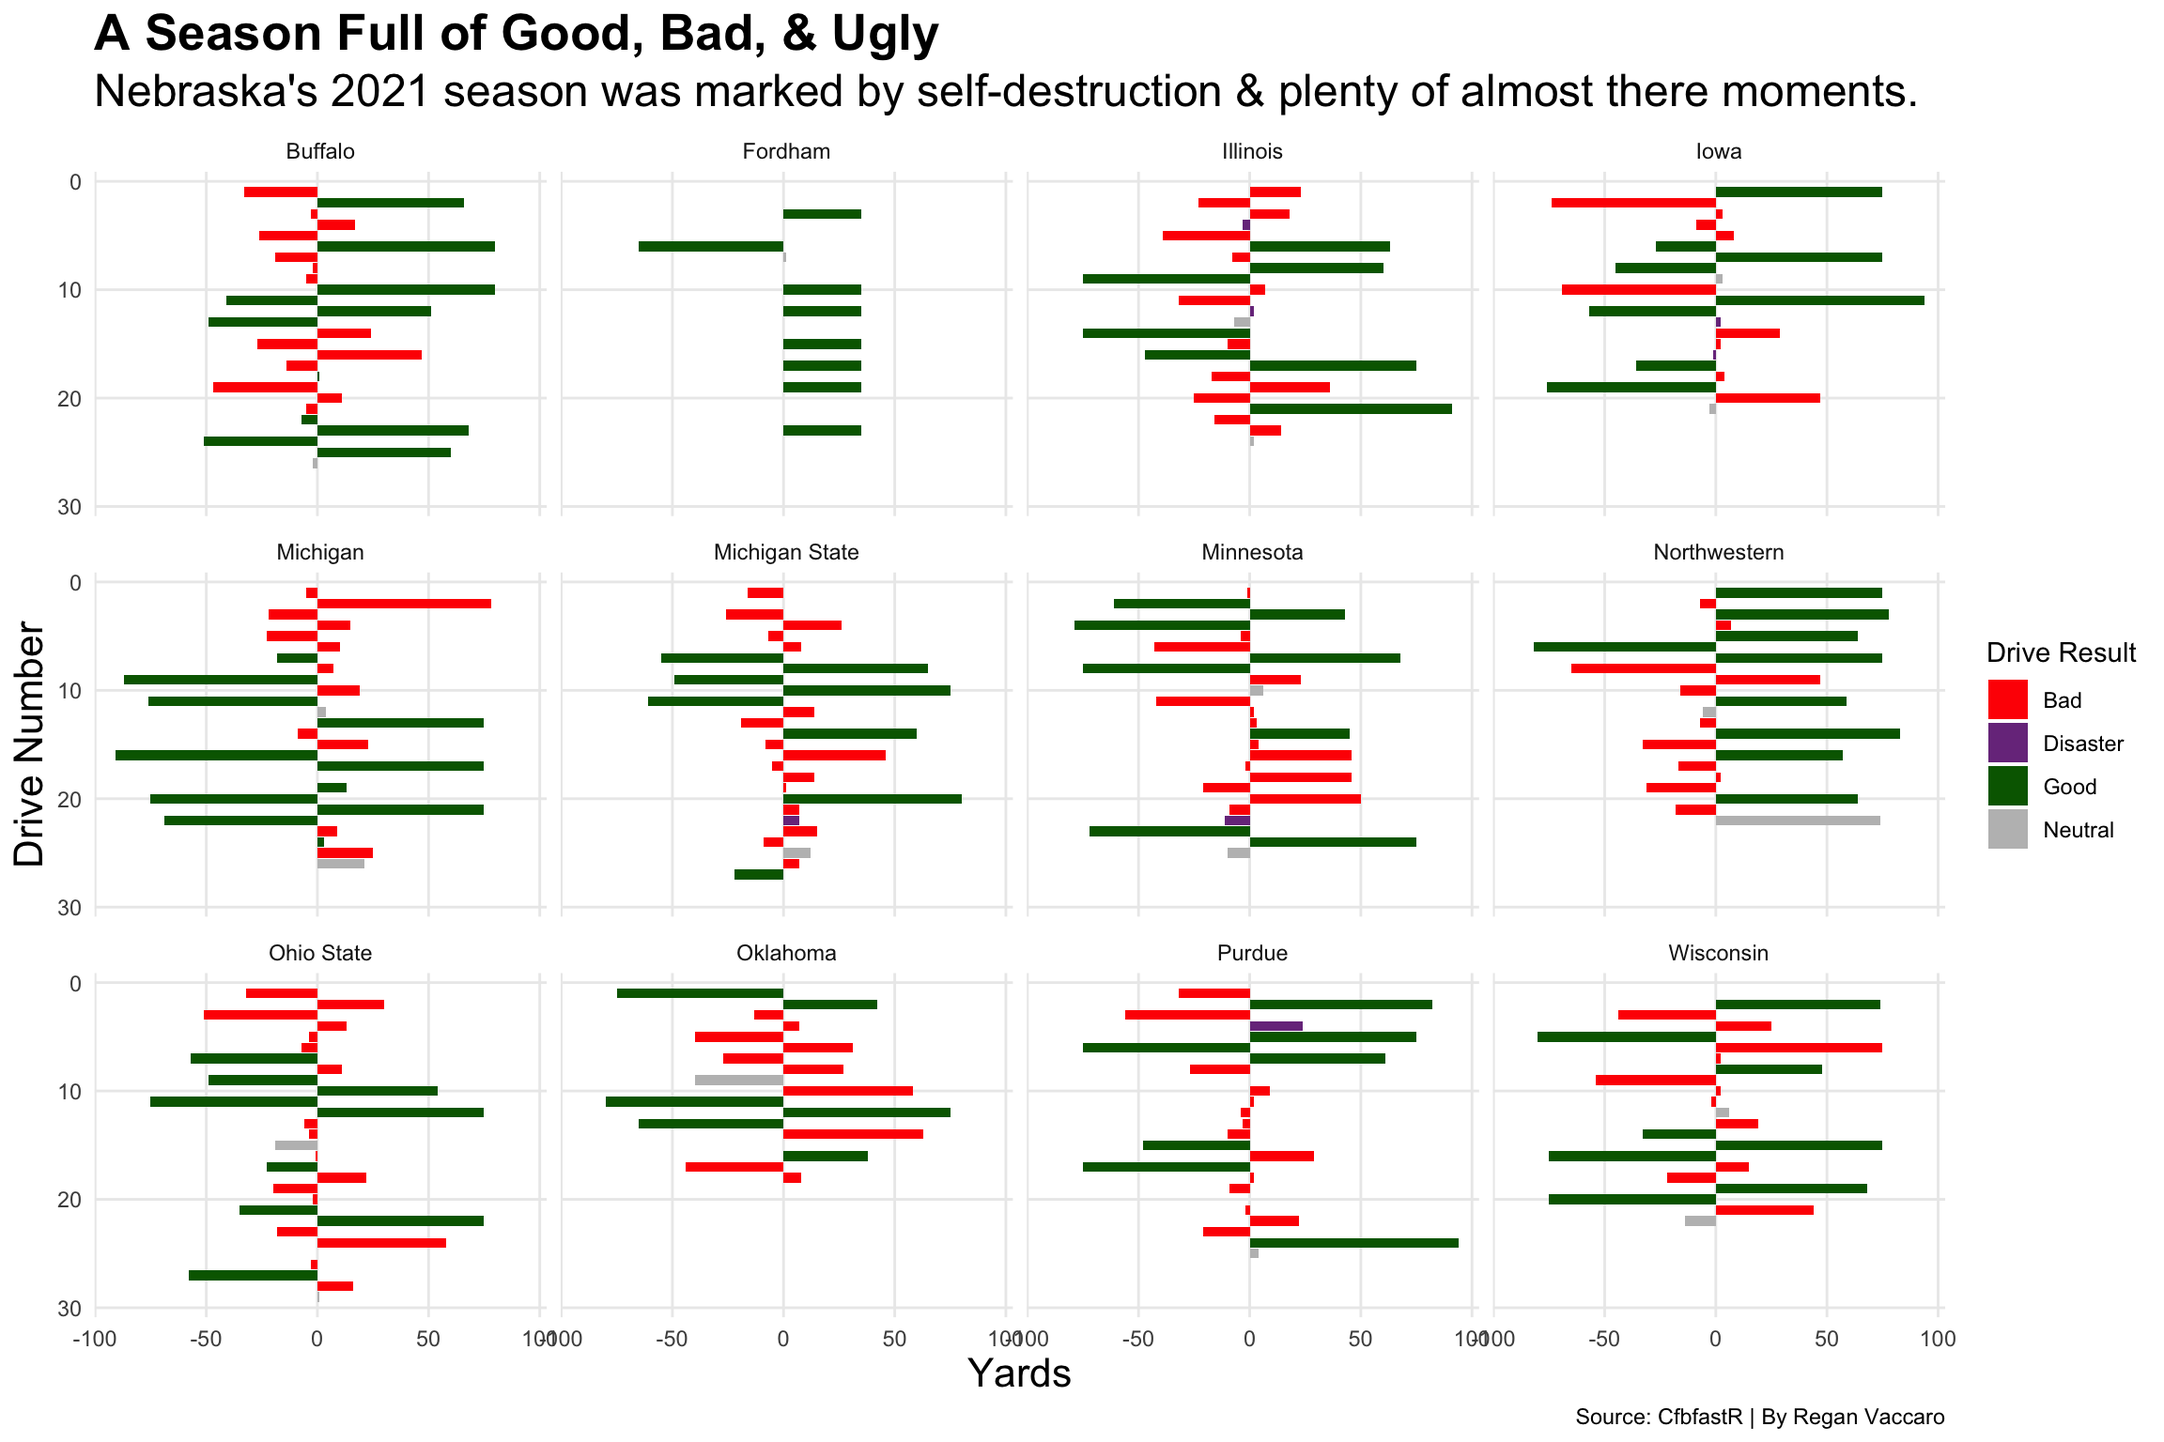
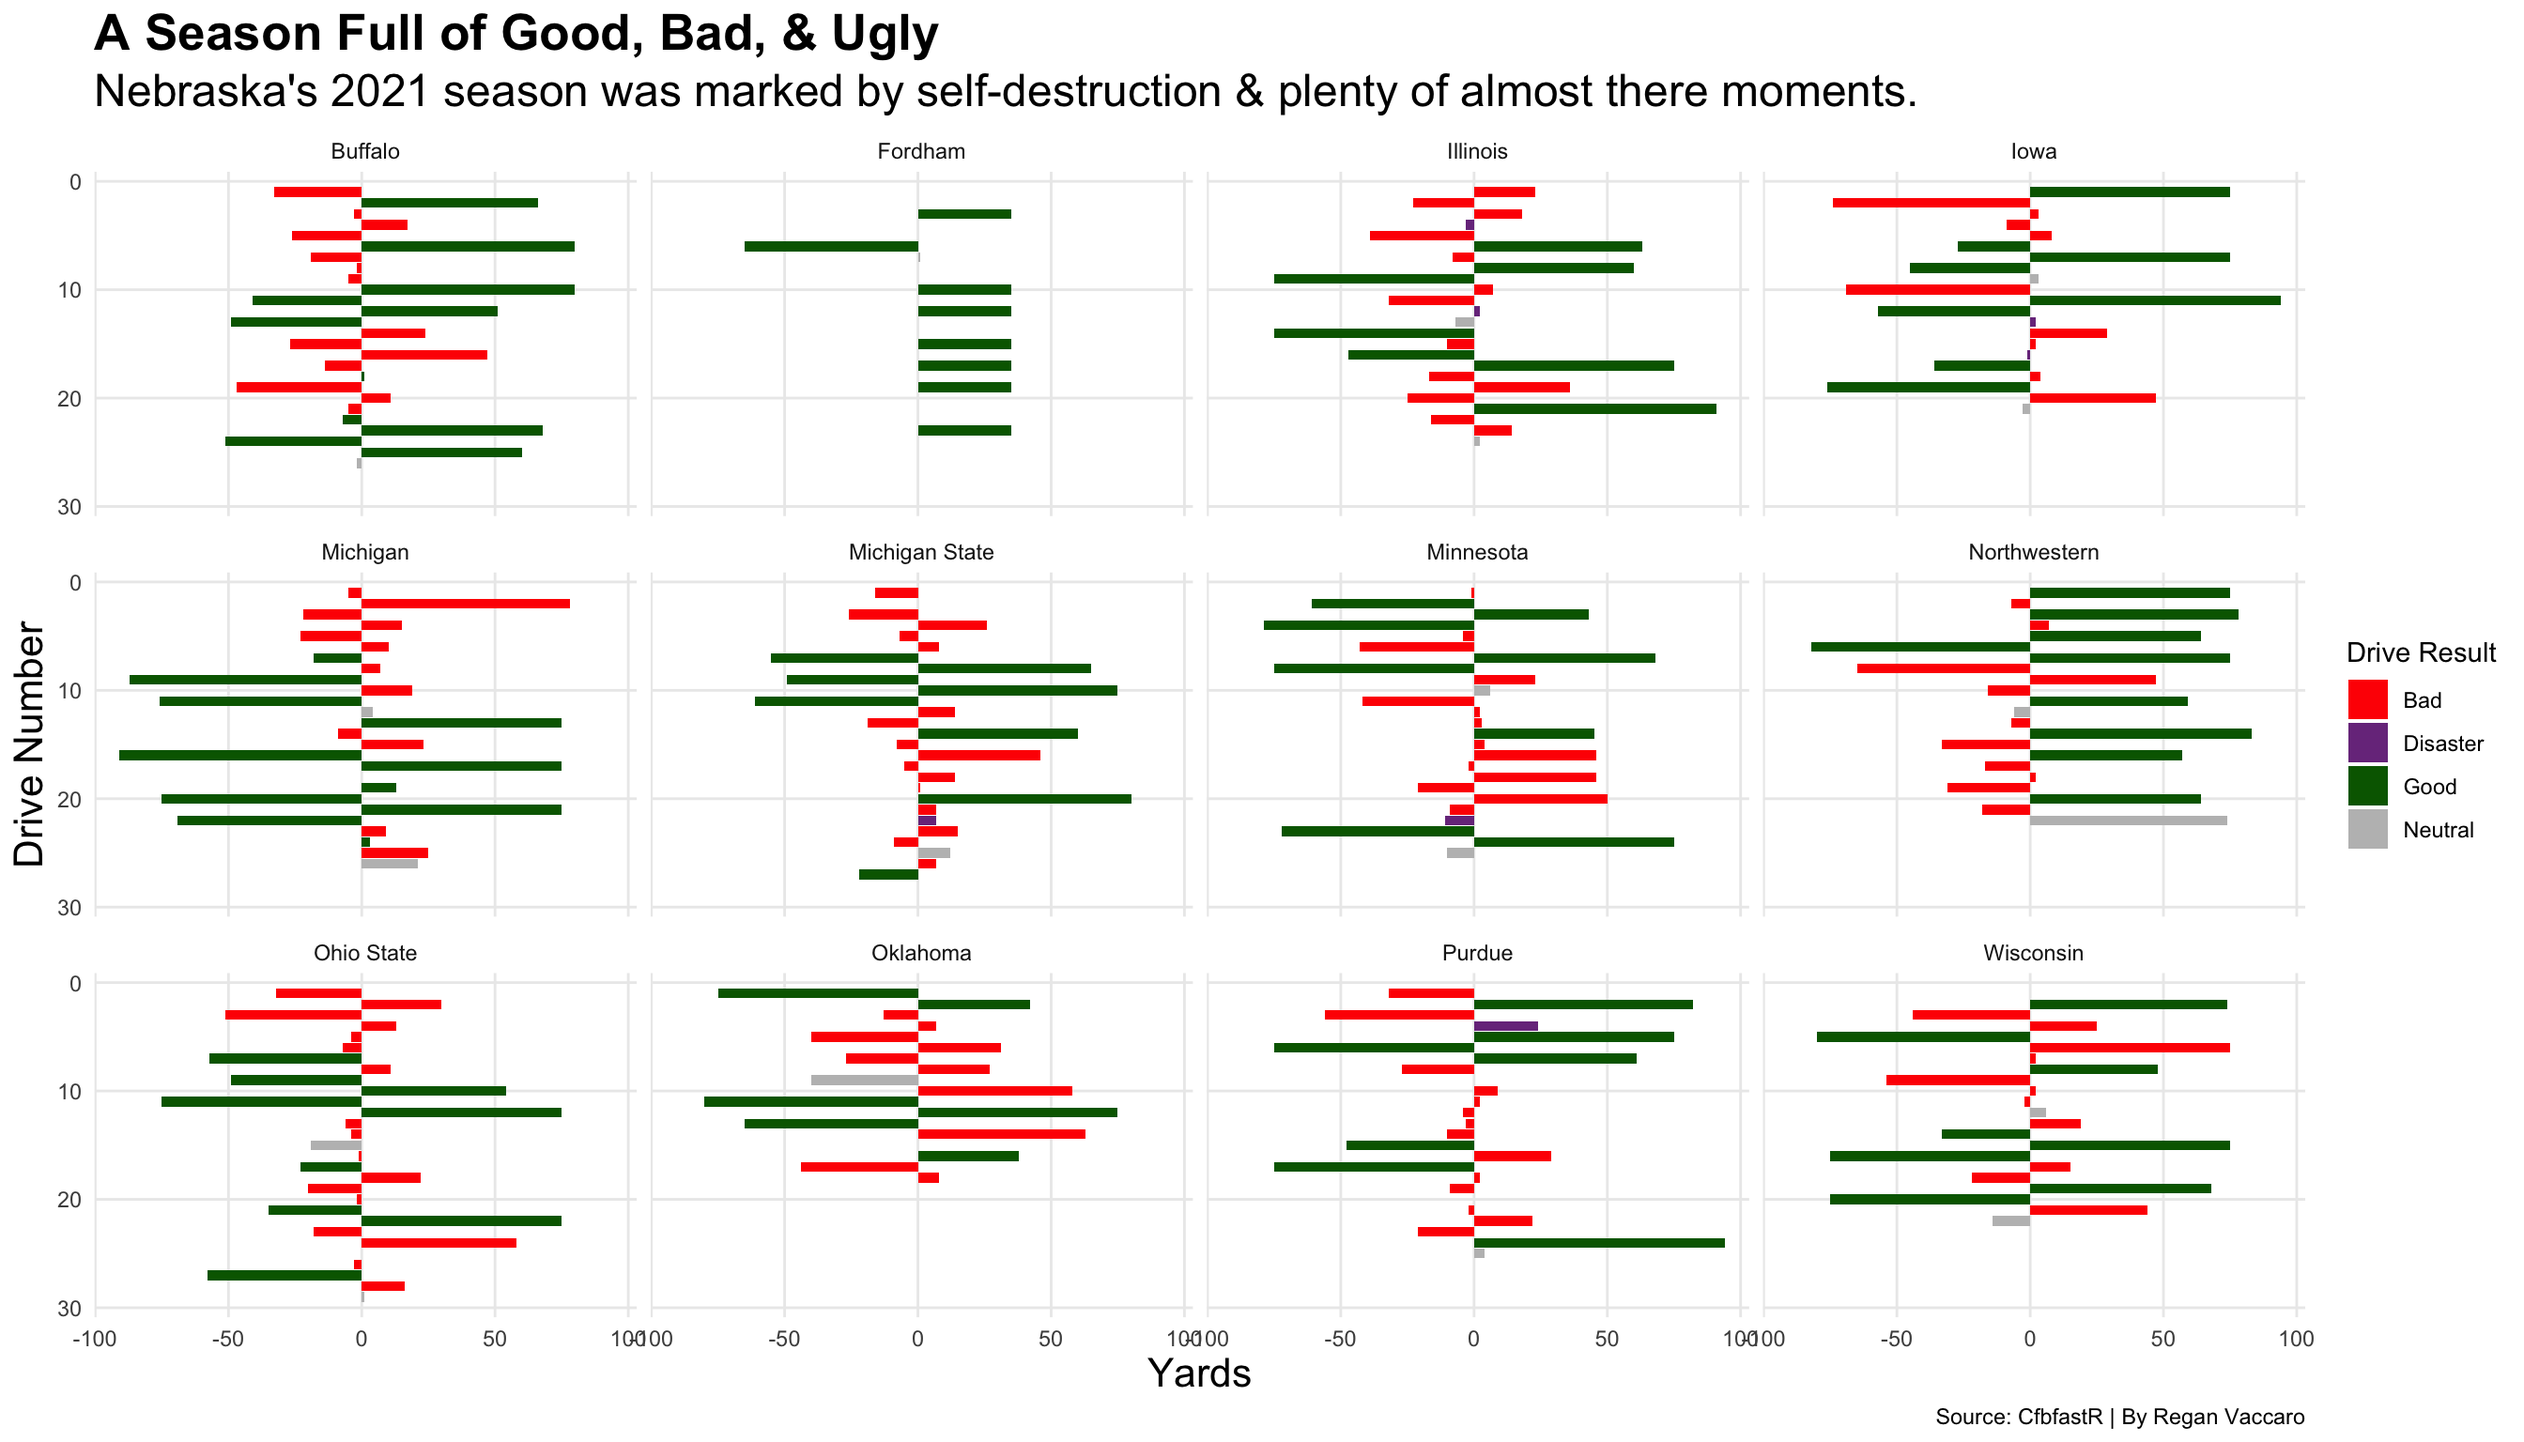
yuh

diff --git a/2021/12/02/is-nebraska-the-best-3-win-team-in-college-football/index.html b/2021/12/02/is-nebraska-the-best-3-win-team-in-college-football/index.html
@@ -124,16 +124,16 @@ team_colors_logos = team_info %&gt;%
   coord_flip() + scale_x_reverse() + facet_wrap(~Opponent)+
   guides(fill=guide_legend(&quot;Drive Result&quot;))+
   labs(x=&quot;Drive Number&quot;, y=&quot;Yards&quot;,
-       title=&quot;A Season Full of Good, Bad, &amp; Ugly&quot;,
-       subtitle=&quot;Nebraska&#39;s 2021 season was marked by self-destruction &amp; plenty of almost there moments.&quot;,
-       caption=&quot;Source: CfbfastR | By Regan Vaccaro&quot;) +
+    title=&quot;A Season Full of Good, Bad, &amp; Ugly&quot;,
+    subtitle=&quot;Nebraska&#39;s 2021 season was marked by self-destruction &amp; plenty of almost there moments.&quot;,
+    caption=&quot;Source: CfbfastR | By Regan Vaccaro&quot;) +
   theme_minimal() +
   theme(
     plot.title = element_text(size = 20, face = &quot;bold&quot;),
     axis.title = element_text(size = 16),
     plot.subtitle = element_text(size=18),
     panel.grid.minor = element_blank())</code></pre>
-<p><img src="http://reganvaccaro.github.io/2021/12/02/is-nebraska-the-best-3-win-team-in-college-football/index_files/figure-html/unnamed-chunk-6-1.png" width="1152" />
+<p><img src="http://reganvaccaro.github.io/2021/12/02/is-nebraska-the-best-3-win-team-in-college-football/index_files/figure-html/unnamed-chunk-6-1.png" width="1344" />
 Nebraska ended their season having scored 314 points and only 244 points were scored against them. That left them with a +70 overall for the season. In Big Ten play, they had a +7 in points scores versus points allowed. The graphs above show these statistics very accurately. For their wins against Buffalo, Fordham, &amp; Northwestern, the graphs show mostly green. For every other game, it is a different story. For each good drive, it seemed like there was an equal and opposite drive in the opposing team’s favor. That doesn’t discount all of the good that Nebraska played in the season, however.The graph shows that Nebraska competed well, but had major problems in sealing the deal in the end.</p>
 <p>It’s understood that the Huskers played well, but how tough was the competition?
 Next, I want to look at the SRS (Simple Rating System) rating that takes into account a team’s average scoring margin as well as the strength of schedule. The higher the rating, the harder the schedule was along with point differential.</p>
@@ -152,16 +152,15 @@ ratingsvswins &lt;- records %&gt;% left_join(ratings, by=&quot;team&quot;)</code
   geom_hline(yintercept = 7.25961800,color = &quot;red&quot;) +
   scale_x_continuous(breaks = c(1,2,3,4,5,6,7,8,9,10,11,12))+
 labs(x=&quot;Amount of Wins&quot;, y=&quot;SRS Rating&quot;,
-       title=&quot;Nebraska Competed Well, Despite Hard Schedule&quot;,
-       subtitle=&quot;The Huskers had a higher SRS rating than all three, four, and five win teams.&quot;,
-       caption=&quot;Source: CfbfastR | By Regan Vaccaro&quot;) +
+    title=&quot;Nebraska Competed Well, Despite Hard Schedule&quot;,
+    subtitle=&quot;The Huskers had a higher SRS rating than all three, four, and five win teams.&quot;,
+    caption=&quot;Source: CfbfastR | By Regan Vaccaro&quot;) +
   theme_minimal() +
   theme(
     plot.title = element_text(size = 20, face = &quot;bold&quot;),
     axis.title = element_text(size = 16),
     plot.subtitle = element_text(size=18),
-    panel.grid.minor = element_blank(),
-    )</code></pre>
+    panel.grid.minor = element_blank())</code></pre>
 <p><img src="http://reganvaccaro.github.io/2021/12/02/is-nebraska-the-best-3-win-team-in-college-football/index_files/figure-html/unnamed-chunk-10-1.png" width="960" />
 From this chart, it can be seen that Nebraska had an SRS of 7.25 which is well above EVERY single 3 win team. That means that Nebraska had both a higher point differential and a much harder competition than each of their friends with only 3 wins. This data singlehandedly answers the question that Nebraska is the best 3 win football team in 2021.</p>
 <p>It does, however, bring up the idea that Nebraska should have won many more games than they did. This is because they have a higher rating than not only the 1,2, and 3 win teams, but also more than all 4,5, and most of 6 win teams. This should statistically put Nebraska’s record at an at least 6 or 7 win season.</p>
@@ -198,16 +197,15 @@ scale_x_continuous(breaks = c(1,2,3,4,5,6,7,8,9,10,11,12,13))+
 geom_point(data=nebraskagames, aes(x=week, y=nebraska_win_prob,color = Outcome), size = 4)+
 scale_color_manual(values = c(&quot;red&quot;, &quot;darkgreen&quot;))+
   labs(x=&quot;Week&quot;, y=&quot;Nebraska Win Probability&quot;,
-       title=&quot;Heartbreak Huskers &quot;,
-       subtitle=&quot;Nebraska won three games, but should have won more.&quot;,
-       caption=&quot;Source: CfbfastR | By Regan Vaccaro&quot;) +
+    title=&quot;Heartbreak Huskers &quot;,
+    subtitle=&quot;Nebraska won three games, but should have won more.&quot;,
+    caption=&quot;Source: CfbfastR | By Regan Vaccaro&quot;) +
   theme_minimal() +
   theme(
     plot.title = element_text(size = 20, face = &quot;bold&quot;),
     axis.title = element_text(size = 16),
     plot.subtitle = element_text(size=18),
-    panel.grid.minor = element_blank(),
-    )</code></pre>
+    panel.grid.minor = element_blank())</code></pre>
 <p><img src="http://reganvaccaro.github.io/2021/12/02/is-nebraska-the-best-3-win-team-in-college-football/index_files/figure-html/unnamed-chunk-14-1.png" width="960" />
 In the games that the Huskers won, they had a pre-game win probability of 75% or over, in other games Nebraska’s victory was less predictable but still favored in four of the other nine games. Had Nebraska won the other games in which they were favored to win, the season record would have been 7-5.</p>
 <p>Ultimately if you ask any Husker fan, I bet they would tell you that the 2021 football season didn’t feel like a 3 win season. In the end, it statistically shouldn’t have looked like one either. The Heartbreak Huskers may as well just be the new team name. It will be up to the 2022 team to change that narrative.</p>
